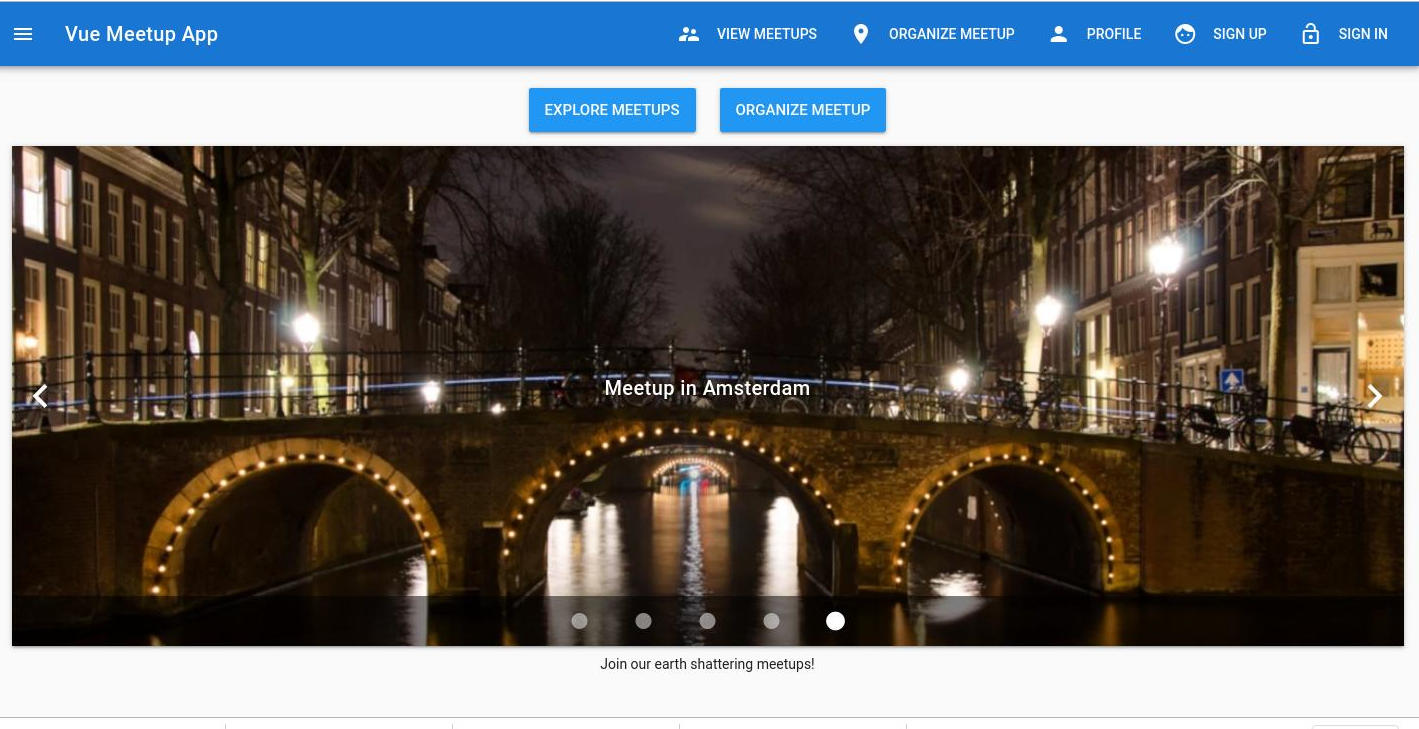
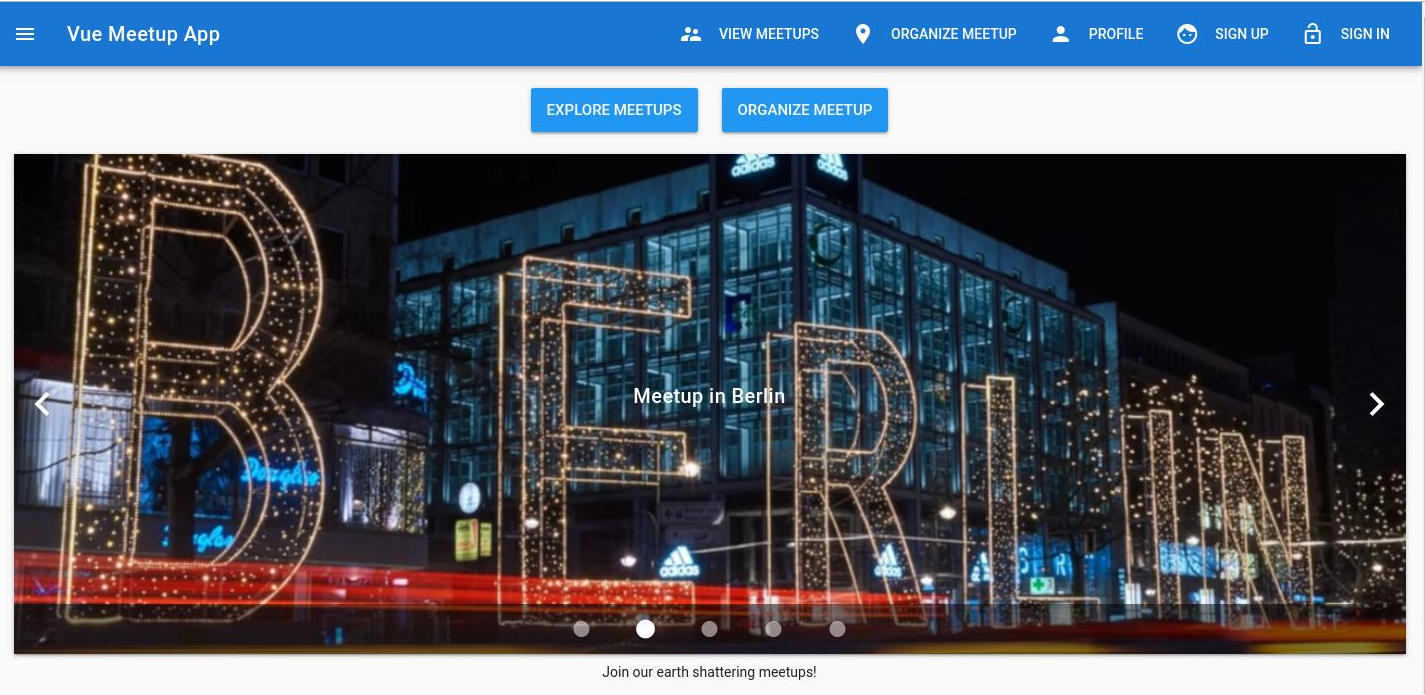
Update

diff --git a/src/components/Home.vue b/src/components/Home.vue
@@ -24,7 +24,7 @@
     </v-layout>
     <v-layout row wrap  class="mt-2">
       <v-flex xs12 class="text-xs-center">
-       <p>Join our earth shattering meetups!</p>
+       <p class="font-weight-bold text--primary">Join our earth shattering meetups!</p>
       </v-flex>
     </v-layout>
   </v-container>
